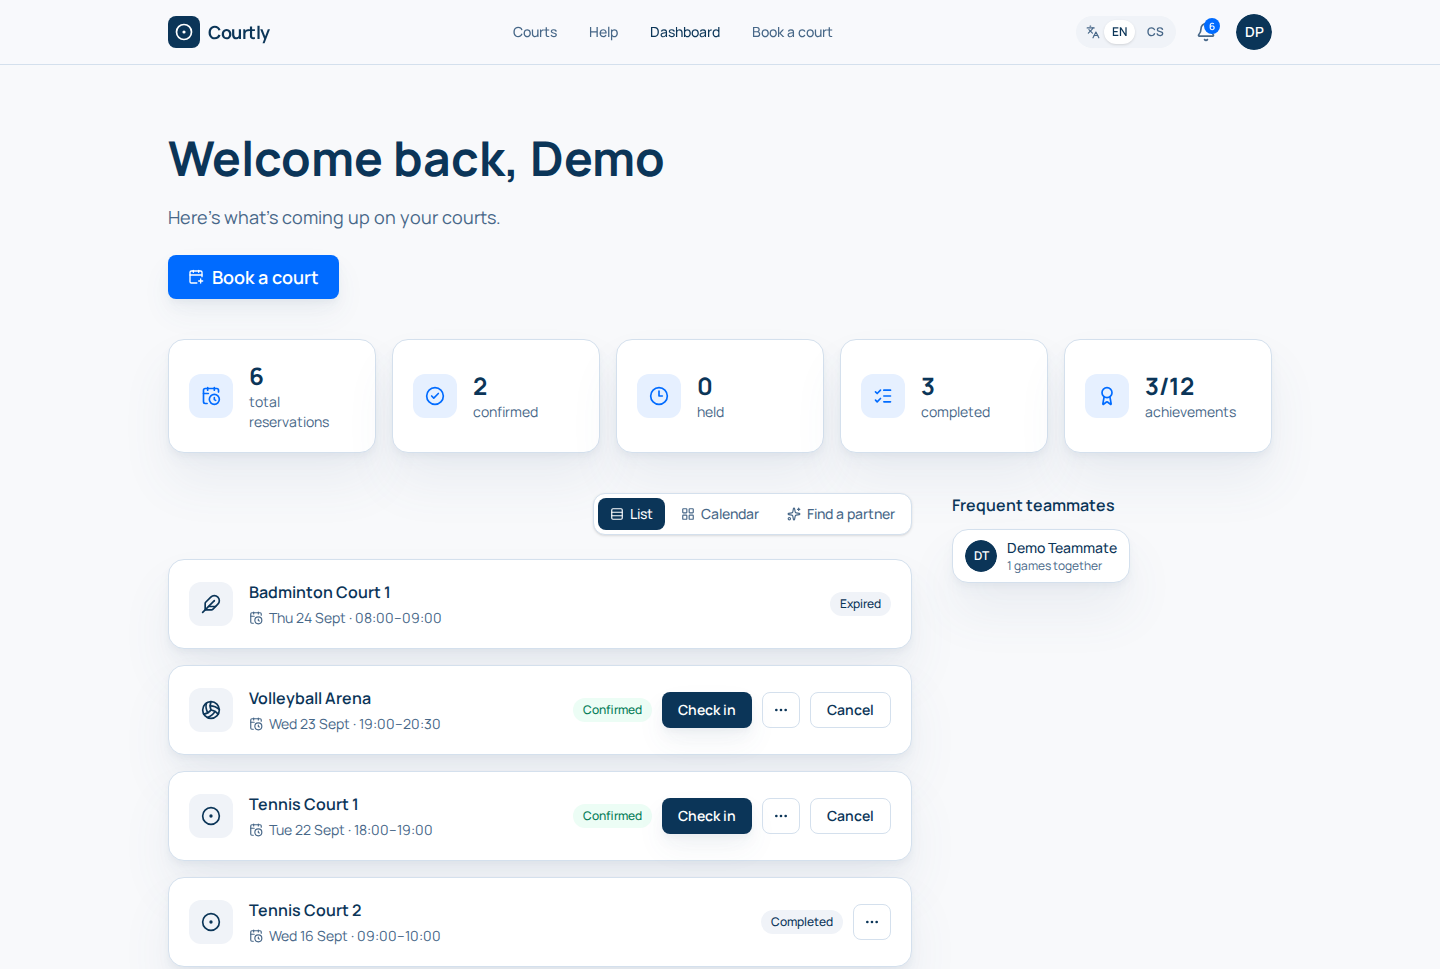
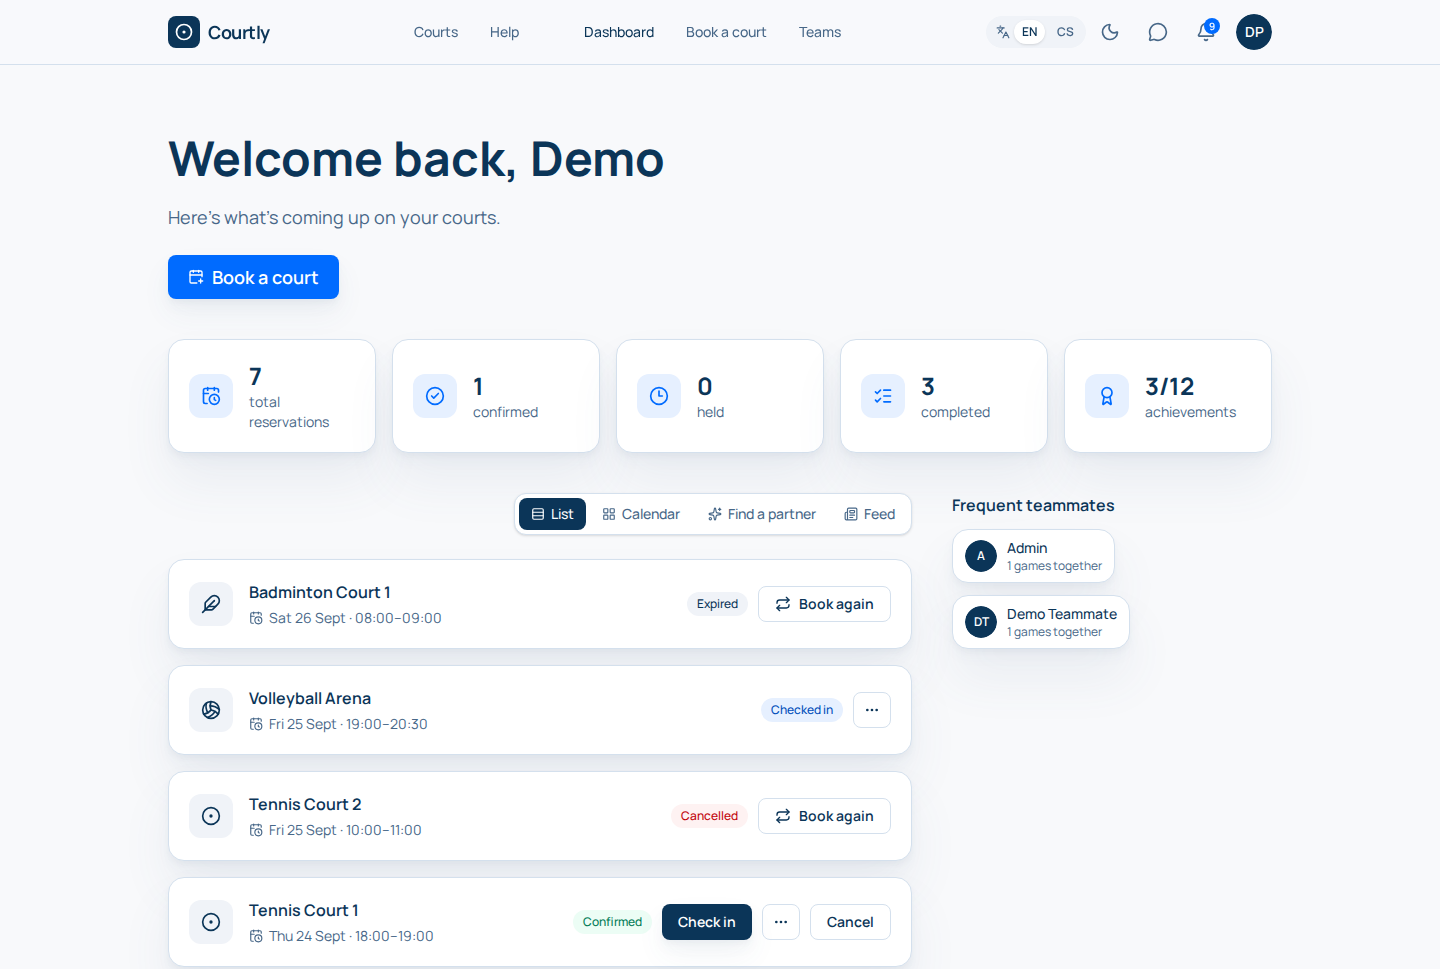
docs: catch up docs/skills/screenshots after this session's frontend work
Audit pass across the shadcn CLI migration, role-adapted navbar,
dashboard venue snapshot, dark mode, and the player-search/occupancy
fixes (CHANGELOG.md, frontend/CLAUDE.md, docs/codebase-map.md, and
frontend/README.md were already kept current as each of those landed).
What was actually missing:

- README.md's hero screenshots (docs/screenshots/{landing,dashboard}.png)
  predated the shadcn migration and the navbar/dark-mode work — visibly
  stale UI on the repo's own front page. Regenerated both.
- README.md's player feature list didn't mention the new light/dark
  theme.
- docs/capability-map.md had no row for dark mode — a real, durable,
  now-shipped capability with nothing tracking it for a future "what's
  our capability gap" question.
- component-design's skill didn't name player-search.tsx as the pattern
  for a "type to search, pick from a list" UI, or explain why it
  deliberately avoids a floating dropdown (breaks inside a Dialog two
  different ways — overflow-clipping, then Radix's modality guard making
  a body-level portal inert) — exactly the kind of trap a future session
  would otherwise rediscover the hard way.
- frontend/CLAUDE.md's manual-verification checklist mentioned checking
  both languages and the relevant role, but not both themes, now that
  dark mode is a real, first-class part of the app.

diff --git a/docs/capability-map.md b/docs/capability-map.md
@@ -83,6 +83,7 @@ here just because it exists, only ones worth tracking status on.
 | Mobile responsiveness (`week-calendar.tsx`) | Strong | Below `sm`, shows one day at a time (tappable day-chip strip) instead of a horizontally-scrolled 7-column grid — desktop/tablet unchanged. Verified in a real browser at 375px and 1280px (Playwright, no horizontal overflow, day-switching and "Today" reset both correct) | 2026-09-22 |
 | Notification UX | Strong | Mark-all-read, plus per-category mute preferences (`GET/PUT /notifications/preferences`, grouped into 7 user-facing categories on the profile page) — `notify()` now skips creating a row for a muted type. Web push (`PushSubscription`, `pywebpush`) now delivers the same notifications to the browser even when the tab is closed, gated by a toggle on the profile page and respecting the same per-category mutes. Delivery failure (dead subscription, push service unreachable) never breaks the request that triggered it — best-effort by design, verified via monkeypatched `pywebpush.webpush` in tests | 2026-09-22 |
 | Keyboard-only completability (booking flow) | Strong | Actually walked end-to-end with a real browser and no mouse (Playwright: Tab-only navigation, Enter/ArrowDown on every `Select`, native date-input digit entry, final submit) — court card, date, duration, start time, repeat-weekly switch, and Reserve-slot button were all reachable and operable, error toast (advance-booking-window rejection) was clear, and a valid submission succeeded and appeared correctly on the dashboard. Found and fixed a real, systemic gap this surfaced: 5 `<Switch>` usages across 3 files had no accessible name for screen readers (a visible label sibling, never programmatically associated) — all 5 now have `aria-label` | 2026-09-22 |
+| Dark mode / theming | Strong | `lib/theme.tsx` (`ThemeProvider`/`useTheme`, mirrors `lib/i18n.tsx`'s shape) + `components/shared/theme-toggle.tsx`. Detected from `prefers-color-scheme`, persisted, no FOUC (`useLayoutEffect`). Because the design system already routed color through CSS custom properties, one `.dark` token block in `index.css` re-themes nearly the whole app; the ~13 spots using a raw Tailwind palette color instead got explicit `dark:` pairs. `color-scheme` set too, so browser-native chrome (date-input glyph, scrollbars) follows the theme — found and fixed as a real gap the sweep surfaced. Verified across all 4 personas and ~25 pages/states, zero console errors, light mode confirmed pixel-unchanged | 2026-09-24 |
 
 ## Product capabilities
 

diff --git a/frontend/.claude/skills/component-design/SKILL.md b/frontend/.claude/skills/component-design/SKILL.md
@@ -94,6 +94,20 @@ This is a finished, deliberate design decision:
   needed — that's the signal to extract a real `components/shared/` table
   primitive instead of a fourth ad hoc grid (see `architecture-review`'s
   "evidence before abstraction" rule).
+- **`components/shared/player-search.tsx` is the pattern for "type a query,
+  pick a person from a list."** It renders results in normal document flow
+  directly under the input — never a floating `position: absolute`/
+  portaled overlay. That's deliberate, not an oversight: a floating overlay
+  breaks two different ways as soon as it's opened from inside a `Dialog`
+  (and this component is used from two) — `DialogContent`'s
+  `overflow-y-auto` treats an absolutely-positioned child as extra
+  *scrollable* height instead of showing it as a layer over the content,
+  and escaping that via a portal to `document.body` runs into Radix
+  `Dialog`'s own modality guard, which marks everything outside its own
+  portal `inert` (unclickable) while open — including a separate portal.
+  Follow this component's in-flow-list shape for a new "search and pick"
+  UI rather than reaching for a floating-dropdown/combobox pattern,
+  especially one that might ever render inside a `Dialog`.
 
 ## Before finishing
 

diff --git a/frontend/CLAUDE.md b/frontend/CLAUDE.md
@@ -106,6 +106,10 @@ it done (per the root `CLAUDE.md` "definition of done").
 - Check both languages (the language switcher toggles EN/CS) and the
   relevant role (player vs. venue manager) where the change touches
   role-gated UI.
+- Check both light and dark mode (the theme toggle next to the language
+  switcher) for any new or changed color — see the design-system note above
+  on why a raw Tailwind color needs an explicit `dark:` pair and a
+  semantic token doesn't.
 - Check the browser console for errors/warnings the change introduced.
 
 ## Build/lint gate

diff --git a/README.md b/README.md
@@ -44,7 +44,8 @@ concurrent demand (see [Architecture & decisions](#architecture--decisions)).
 - A personal calendar feed (Google/Apple/Outlook) and in-app
   notifications, including browser push.
 - A built-in Help Center (getting-started guide, a plain-language
-  reservation-status glossary, FAQ) and a full English/Czech UI.
+  reservation-status glossary, FAQ), a full English/Czech UI, and a
+  light/dark theme.
 
 ### For venue managers
 
